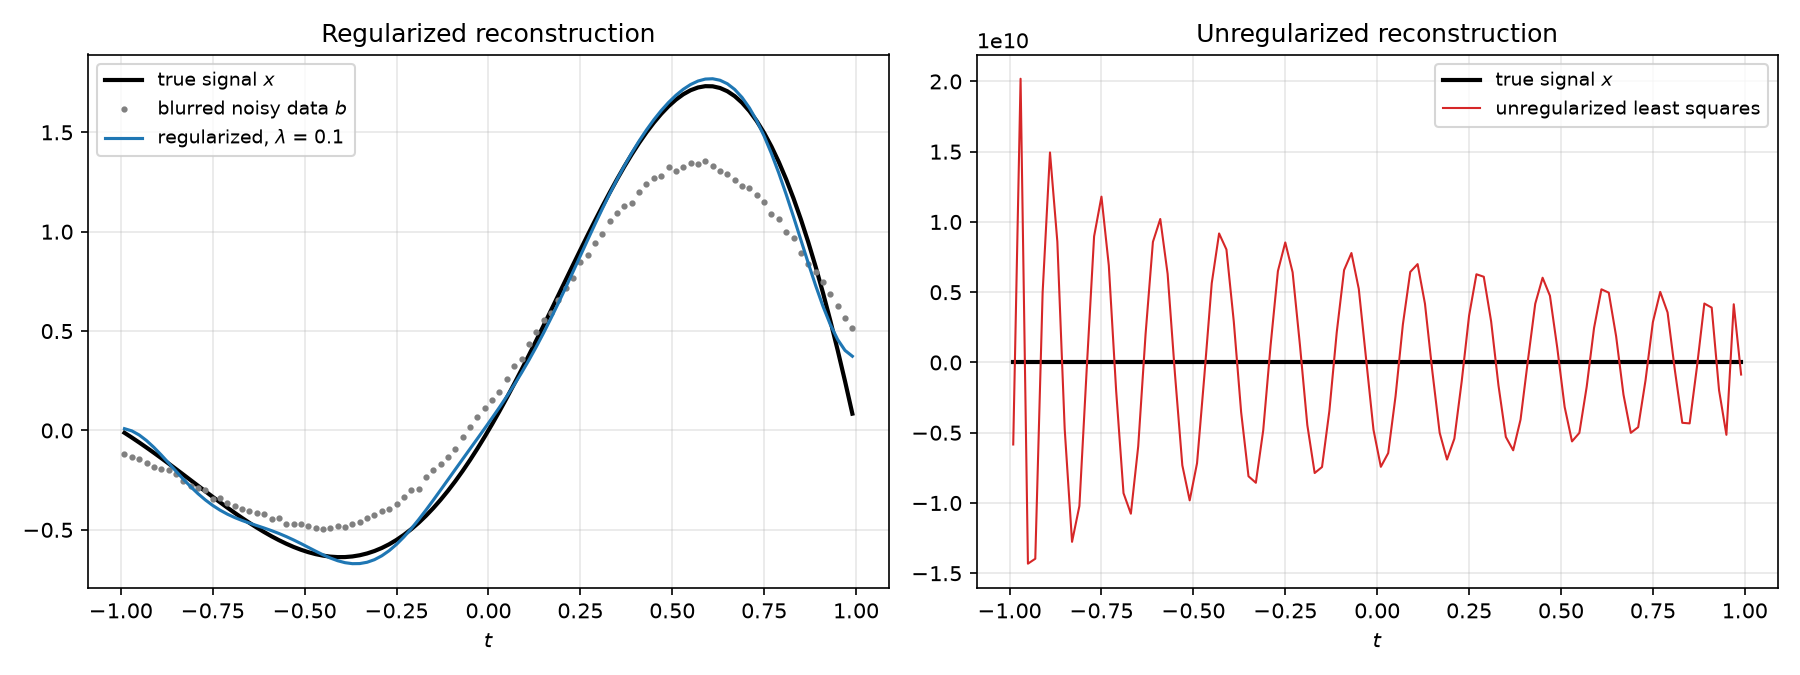
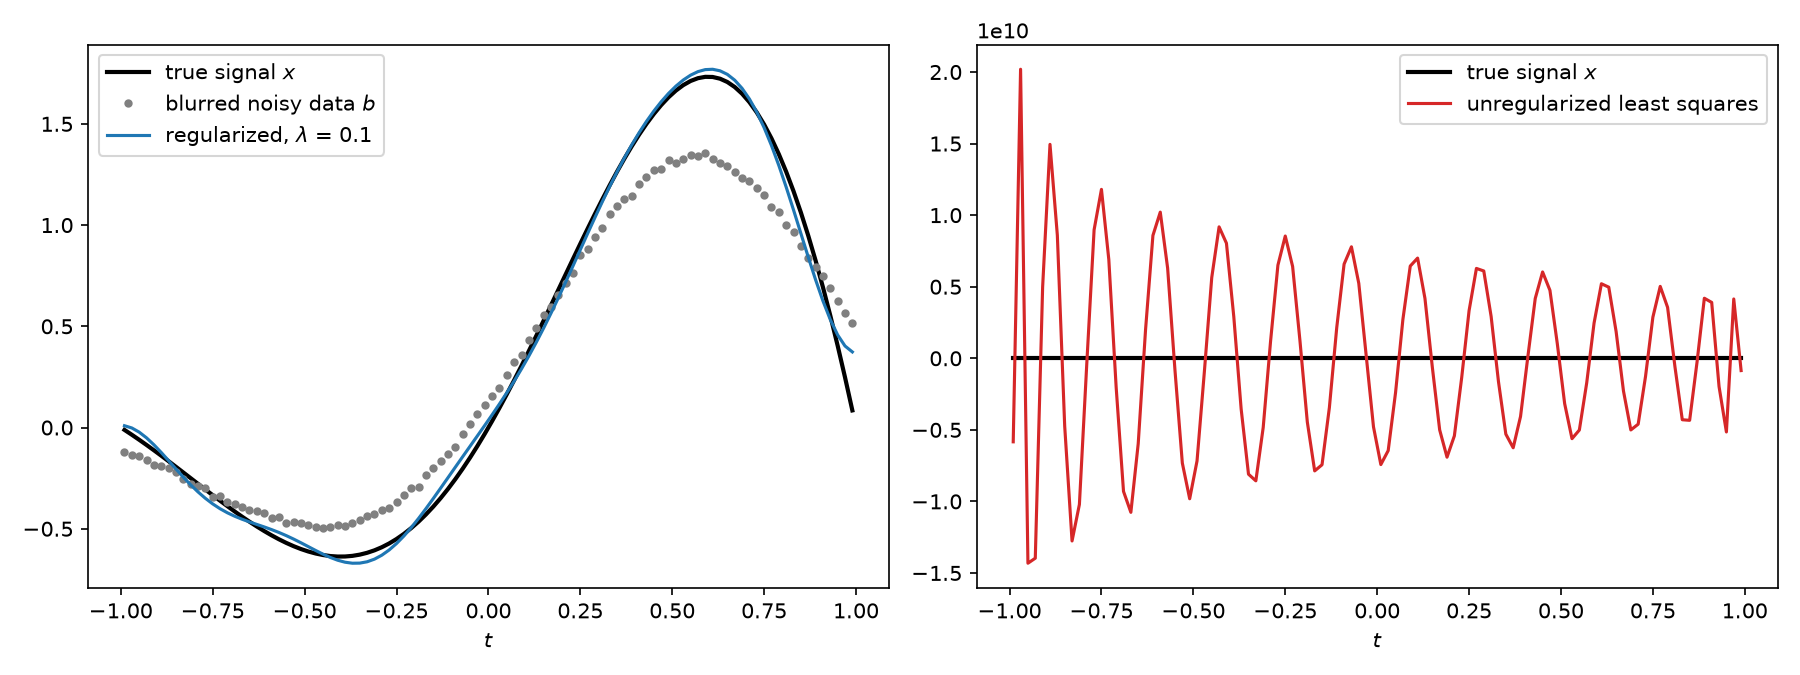
working

diff --git a/deblurring.py b/deblurring.py
@@ -3,129 +3,74 @@ import matplotlib.pyplot as plt
 
 from gsvd import gsvd
 
-# ---------------------------------------------------------------------------
-#  Problem setup (Method, section "One-dimensional deblurring")
-# ---------------------------------------------------------------------------
-
-
-def true_signal(t):
-    """The signal we try to recover, x(t) = e^t sin(pi t)."""
-    return np.exp(t) * np.sin(np.pi * t)
-
 
 def blur_matrix(t, h, beta):
-    """Discretize the blur integral with the box rule: A_ij = h K(t_i, t_j).
-
-    K(s, t) = c exp(-beta (s - t)^2) is the Gaussian kernel. We choose
-    c = sqrt(beta / pi) so that the kernel integrates to 1; the blur then
-    smears the signal out without changing its overall size.
-    """
     c = np.sqrt(beta / np.pi)
-    s, tt = np.meshgrid(t, t, indexing="ij")  # s = t_i (rows), tt = t_j (columns)
-    return h * c * np.exp(-beta * (s - tt) ** 2)
+    return h * c * np.exp(-beta * (t[:, None] - t[None, :]) ** 2)
 
 
 def first_difference(n):
-    """The (n-1) x n first-difference matrix, (L x)_i = x_i - x_{i+1}."""
     return np.eye(n - 1, n) - np.eye(n - 1, n, k=1)
 
 
-def relative_error(x, x_true):
-    return np.linalg.norm(x - x_true) / np.linalg.norm(x_true)
-
-
-# ---------------------------------------------------------------------------
-#  Regularized solution via the GSVD (Method, general-form regularization)
-# ---------------------------------------------------------------------------
-
-
-def gsvd_factors(A, L):
-    """Compute the GSVD once and return U, W and the diagonals alpha, beta.
-
-    alpha_i and beta_i are the diagonals of Sigma_A and Sigma_L. Since L has
-    only n-1 rows, beta_n = 0: that component (a constant signal) lies in
-    the null space of L and is not regularized.
-    """
-    U, V, C, S, W, Winv = gsvd(A, L)
+def gsvd_parts(A, L):
     n = A.shape[1]
-    alpha = np.diag(C)[:n]
-    beta = np.zeros(n)
-    beta[: min(S.shape)] = np.diag(S)
+    U, V, C, S, W, Winv = gsvd(A, L)
+    alpha = np.diag(C)
+    beta = np.append(np.diag(S), 0)
     return U[:, :n], W, alpha, beta
 
 
-def filter_factors(alpha, beta, lam):
-    """phi_i(lambda) = alpha_i^2 / (alpha_i^2 + lambda^2 beta_i^2)."""
-    return alpha**2 / (alpha**2 + lam**2 * beta**2)
-
-
 def regularized_solution(U, W, alpha, beta, b, lam):
-    """x = W y with y_i = alpha_i / (alpha_i^2 + lambda^2 beta_i^2) (u_i^T b).
-
-    This equals phi_i (u_i^T b) / alpha_i, but written this way we never
-    divide by alpha_i. That matters here: A is so ill-conditioned that some
-    alpha_i are numerically zero.
-    """
     y = alpha / (alpha**2 + lam**2 * beta**2) * (U.T @ b)
     return W @ y
 
 
-# ---------------------------------------------------------------------------
-#  Experiment 1: regularized vs. unregularized solution
-# ---------------------------------------------------------------------------
+def true_signal(t):
+    return np.exp(t) * np.sin(np.pi * t)
 
-if __name__ == "__main__":
-    # Parameters
-    n = 100  # number of sample points
-    beta_blur = 10.0  # kernel parameter; larger beta = narrower blur
-    delta = 1e-2  # noise level
-    lam = 1e-1  # regularization parameter (chosen by hand for now)
 
-    # Sample the true signal at n equidistant points (box midpoints) in [-1, 1]
-    a, b_end = -1.0, 1.0
-    h = (b_end - a) / n
-    t = a + h * (np.arange(n) + 0.5)
-    x_true = true_signal(t)
+def rel_err(x, x_true):
+    return np.linalg.norm(x - x_true) / np.linalg.norm(x_true)
 
-    # Blurred, noisy data b = A x + e with e = delta * N(0, 1)
-    A = blur_matrix(t, h, beta_blur)
-    rng = np.random.default_rng(0)  # fixed seed so the results are reproducible
-    b = A @ x_true + delta * rng.standard_normal(n)
 
-    # Unregularized least-squares solution, min ||A x - b||
-    x_ls = np.linalg.lstsq(A, b, rcond=None)[0]
+# Parameters
+n = 100  # number of sample points
+beta_blur = 10.0  # kernel parameter; larger beta = narrower blur
+delta = 1e-2  # noise level
+lam = 1e-1  # regularization parameter
 
-    # Regularized solution via the GSVD of (A, L)
-    L = first_difference(n)
-    U, W, alpha, beta = gsvd_factors(A, L)
-    x_reg = regularized_solution(U, W, alpha, beta, b, lam)
+# Sample the true signal at n box midpoints in [-1, 1]
+h = 2 / n
+t = -1 + h * (np.arange(n) + 0.5)
+x_true = true_signal(t)
 
-    # Sanity check: the GSVD solution must satisfy the normal equations (Eq. 3)
-    x_normal = np.linalg.solve(A.T @ A + lam**2 * L.T @ L, A.T @ b)
-    print(f"cond(A)                       = {np.linalg.cond(A):.1e}")
-    print(f"GSVD vs normal equations      = {relative_error(x_reg, x_normal):.1e}")
-    print(f"Relative error, data b        = {relative_error(b, x_true):.3f}")
-    print(f"Relative error, unregularized = {relative_error(x_ls, x_true):.1e}")
-    print(f"Relative error, regularized   = {relative_error(x_reg, x_true):.3f}")
+# Blurred, noisy data b = A x + e with e = delta * N(0, 1)
+A = blur_matrix(t, h, beta_blur)
+rng = np.random.default_rng(0)
+b = A @ x_true + delta * rng.standard_normal(n)
 
-    # Plot. The unregularized solution is far too large to share an axis with
-    # the others, so it gets its own panel.
-    fig, (ax1, ax2) = plt.subplots(1, 2, figsize=(12, 4.5))
+# Unregularized least-squares solution
+x_ls = np.linalg.lstsq(A, b, rcond=None)[0]
 
-    ax1.plot(t, x_true, "k-", lw=2, label="true signal $x$")
-    ax1.plot(t, b, ".", color="gray", ms=4, label="blurred noisy data $b$")
-    ax1.plot(t, x_reg, "tab:blue", lw=1.5, label=f"regularized, $\\lambda$ = {lam:g}")
-    ax1.set_title("Regularized reconstruction")
+# Regularized solution via the GSVD of (A, L)
+U, W, alpha, beta = gsvd_parts(A, first_difference(n))
+x_reg = regularized_solution(U, W, alpha, beta, b, lam)
 
-    ax2.plot(t, x_true, "k-", lw=2, label="true signal $x$")
-    ax2.plot(t, x_ls, "tab:red", lw=1, label="unregularized least squares")
-    ax2.set_title("Unregularized reconstruction")
+print(f"Relative error, data b        = {rel_err(b, x_true):.3f}")
+print(f"Relative error, unregularized = {rel_err(x_ls, x_true):.1e}")
+print(f"Relative error, regularized   = {rel_err(x_reg, x_true):.3f}")
 
-    for ax in (ax1, ax2):
-        ax.set_xlabel("$t$")
-        ax.grid(alpha=0.3)
-        ax.legend(fontsize=9)
-
-    fig.tight_layout()
-    fig.savefig("task5_1.png", dpi=150)
-    plt.show()
+# Plot. The unregularized solution is huge, so it gets its own panel.
+fig, (ax1, ax2) = plt.subplots(1, 2, figsize=(12, 4.5))
+ax1.plot(t, x_true, "k-", lw=2, label="true signal $x$")
+ax1.plot(t, b, ".", color="gray", label="blurred noisy data $b$")
+ax1.plot(t, x_reg, "tab:blue", label=f"regularized, $\\lambda$ = {lam:g}")
+ax2.plot(t, x_true, "k-", lw=2, label="true signal $x$")
+ax2.plot(t, x_ls, "tab:red", label="unregularized least squares")
+for ax in (ax1, ax2):
+    ax.set_xlabel("$t$")
+    ax.legend()
+fig.tight_layout()
+fig.savefig("task5_1.png", dpi=150)
+plt.show()
